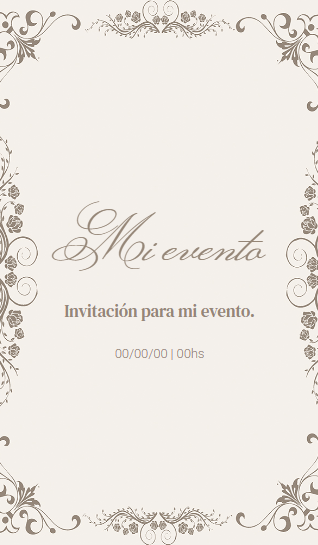
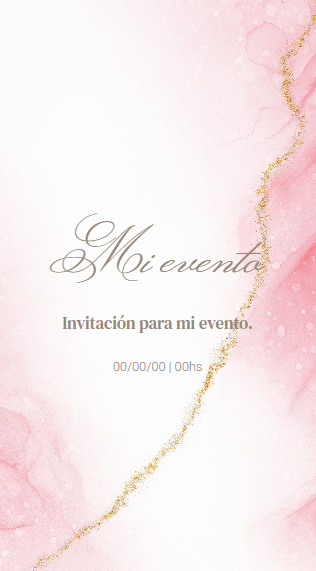
RediseñoEjemplo1

diff --git a/ejemplo1.html b/ejemplo1.html
@@ -40,6 +40,7 @@
                 <h2>Invitación para mi evento.</h2>
                 <h3>00/00/00 | 00hs</h3>
             </section>
+            <hr />
             <section class="body">
                 <div class=" images">
                     <img src="https://images.pexels.com/photos/1043458/pexels-photo-1043458.jpeg?auto=compress&cs=tinysrgb&w=600" alt="Foto de Sarah y Marc 2">
@@ -52,13 +53,14 @@
                     <p><b>Detalles del evento:</b></p>
                     <p>Lorem ipsum dolor sit amet, consectetur adipiscing elit. Sed do eiusmod tempor incididunt ut labore et dolore magna aliqua. Ut enim ad minim veniam, quis nostrud exercitation ullamco laboris nisi ut aliquip ex ea commodo consequat.</p>
                     <br />
-                    <p><b>Dirección:</b></p> 
+                    <p><b>Dirección:</b></p>
                     <p>Calle Falsa 123, Ciudad, País</p>
                     <br />
                     <p><b>Contacto:</b></p>
                     <p>+123 456 7890</p>
                 </div>
             </section>
+            
             <section class="footer">
                 <div class="countdown-container">
                     <h1>Faltan:</h1>
@@ -72,21 +74,25 @@
                 </div>
                 <script src="scrCountdown.js"></script>
 
-                <form class="confirmation-form" id="confirmationForm" style="margin-top: 2em;">
+                <form action="sendForm.php" method="post" class="confirmation-form" id="confirmationForm" style="margin-top: 2em;">
                     <h2>Confirmar asistencia</h2>
-                    <div>
-                        <label for="nombreApellido">Nombre y Apellido:</label>
-                        <input type="text" id="nombreApellido" name="nombreApellido" required />
-                    </div>
-                    <div>
-                        <label for="telefono">Número de Teléfono:</label>
-                        <input type="tel" id="telefono" name="telefono" required pattern="[0-9+ ]{7,}" />
-                    </div>
-                    <div>
-                        <label for="email">Email:</label>
-                        <input type="email" id="email" name="email" required />
-                    </div>
-                    <br />
+                    <!--           <div>
+                <label for="nombreApellido">Nombre y Apellido:</label>
+                <input type="text" id="nombreApellido" name="nombre" required />
+            </div>
+            <div>
+                <label for="telefono">Número de Teléfono:</label>
+                <input type="tel" id="telefono" name="telefono" required pattern="[0-9+ ]{7,}" />
+            </div>
+            <div>
+                <label for="email">Email:</label>
+                <input type="email" id="email" name="email" required />
+            </div>
+            <div>
+                <label for="email">Asistentes:</label>
+                <input type="text" id="email" name="people" required />
+            </div>
+            <br />-->
                     <button type="submit">Confirmar</button>
                 </form>
                 <script>
@@ -98,29 +104,15 @@
                         const telefono = document.getElementById('telefono').value;
                         const email = document.getElementById('email').value;
 
-                        const mensaje =
-                            "Verifica los datos:\n" +
-                            "Nombre y Apellido: " + nombre + "\n" +
-                            "Teléfono: " + telefono + "\n" +
-                            "Email: " + email +
-                            "\n\n¿Desea confirmar el envío?";
-
-                        if (confirm(mensaje)) {
-                            // ✅ Usuario confirmó
-                            alert("Datos confirmados. ¡Gracias!");
-                            e.target.submit(); // envía el formulario
-                            document.getElementById('confirmationForm').reset();
-                            window.scrollTo(0, 0);
-                        } else {
-                            // ❌ Usuario canceló
-                            alert("Envío cancelado.");
-                        }
+                        e.target.submit(); // envía el formulario
+                        document.getElementById('confirmationForm').reset();
+                        window.scrollTo(0, 0);
                     });
 
 
                 </script>
 
-                <p>Creado con <b>Invita.me!</b></p>
+                <p>Creado con <b>Invita.me!</b></p><br />
             </section>
         </div>
     </div>

diff --git a/styleEjemplo1.css b/styleEjemplo1.css
@@ -90,6 +90,7 @@ body {
     align-items: flex-start;
     /*background: #111;*/ /* fondo general */
     padding: 2rem 0;
+    scroll-behavior: smooth; /* para un desplazamiento suave */
 }
 
 /* Contenedor principal 9:16 */
@@ -122,6 +123,7 @@ body {
     /*background: linear-gradient(135deg, #ff8a00, #e52e71);*/
     color: rgb(149, 134, 119); /* color del texto */
     padding: 1rem;
+    animation: FadeBackground 15s ease-in-out infinite alternate;
 }
     .header h1 {
         font-family: "Monsieur La Doulaise", cursive;
@@ -166,6 +168,7 @@ body {
     /* 2. Activa el "scroll snap" en el eje X y lo hace obligatorio */
     scroll-snap-type: x mandatory;
     box-shadow: 0 4px 20px rgba(0,0,0,0.4);
+    scroll-behavior: smooth; /* para un desplazamiento suave */
 }
     .images img {
         aspect-ratio: initial;
@@ -188,7 +191,7 @@ body {
 
 .footer {
     flex: 1;
-    background: rgba(0,0,0,0.85);
+    background-color: rgb(201 161 166);
     color: #fff;
     display: flex;
     align-items: center;
@@ -204,13 +207,18 @@ body {
     padding: 30px;
     border-radius: 10px;
     box-shadow: 0 0 10px rgba(0, 0, 0, 0.1);
-    flex: 1;
+    /*flex: 1;*/
     margin-top: 2rem;
 }
+    .countdown-container h1 {
+        font-family: "Monsieur La Doulaise", cursive;
+        font-size: 2.5em;
+        font-weight: 100;
+    }
 
 #countdown-display span {
     font-size: 2em;
-    font-weight: bold;
+    /*font-weight: bold;*/
     margin: 0 5px;
 }
 
@@ -218,6 +226,7 @@ body {
     font-size: 1.2em;
     color: #e74c3c;
     margin-top: 20px;
+    
 }
 
 .confirmation-form {
@@ -228,7 +237,7 @@ body {
     padding: 2em;
     max-width: 400px;
     margin: 0 auto;
-    flex: 1;
+    /*flex: 1;*/
     font-family: 'Roboto', sans-serif;
     margin-bottom: 2rem;
 }
@@ -275,7 +284,7 @@ body {
     .confirmation-form button[type="submit"] {
         width: 100%;
         padding: 0.8em;
-        background-color: rgb(149, 134, 119);
+        background-color: rgb(187, 142, 147);
         color: #fff;
         border: none;
         border-radius: 6px;
@@ -286,7 +295,7 @@ body {
     }
 
         .confirmation-form button[type="submit"]:hover {
-            background-color: rgb(101, 79, 57);
+            background-color: rgb(125, 94, 98);
         }
 
 
@@ -304,6 +313,18 @@ body {
 
 */
 
+@keyframes FadeBackground {
+    0% {
+        background-size: 100% 100%;
+        opacity: 0.6;
+        word-space-transform: scale(1);
+    }
+    100% {
+        background-size: 110% 100%;
+        opacity: 1;
+        word-space-transform: scale(1.05);
+    }
+}
 
 
 @keyframes FadeTitle {
@@ -329,8 +350,52 @@ body {
 }
 
 
+@keyframes FadeTitlePhone {
+    0% {
+        font-size: 3rem;
+        opacity: 0.6;
+    }
+    90% {
+        font-size: 3.45rem;
+        opacity: 0.8;
+    }
+    100% {
+        font-size: 3.5rem;
+        opacity: 1;
+    }
+}
+
+
+@keyframes FadeinPhone {
+    0% {
+        opacity: 0.2;
+    }
+
+    100% {
+        opacity: 1;
+    }
+}
 
 
 
 
 
+@media (max-width: 450px) {
+
+    .header h1 {
+        font-size: 3.5rem;
+        animation: FadeTitlePhone 3s ease-in-out;
+    }
+    .header h2 {
+        font-size: 1.1rem;
+        animation: FadeinPhone 2s ease-in-out;
+    }
+    .header h3 {
+        font-size: 0.9rem;
+        animation: FadeinPhone 2s ease-in-out;
+    }
+    .images img {
+        width: 80vw;
+        margin-right: 4vw;
+    }
+}

diff --git a/ejemplos.html b/ejemplos.html
@@ -23,7 +23,7 @@
 
     <div class="ejemplos-content">
         <a href="ejemplo1.html"><img src="img/examples/Ejemplo1.png" alt="Ejemplo" /> Elegante </a>
-        
+         
     </div>
 
 </body>
